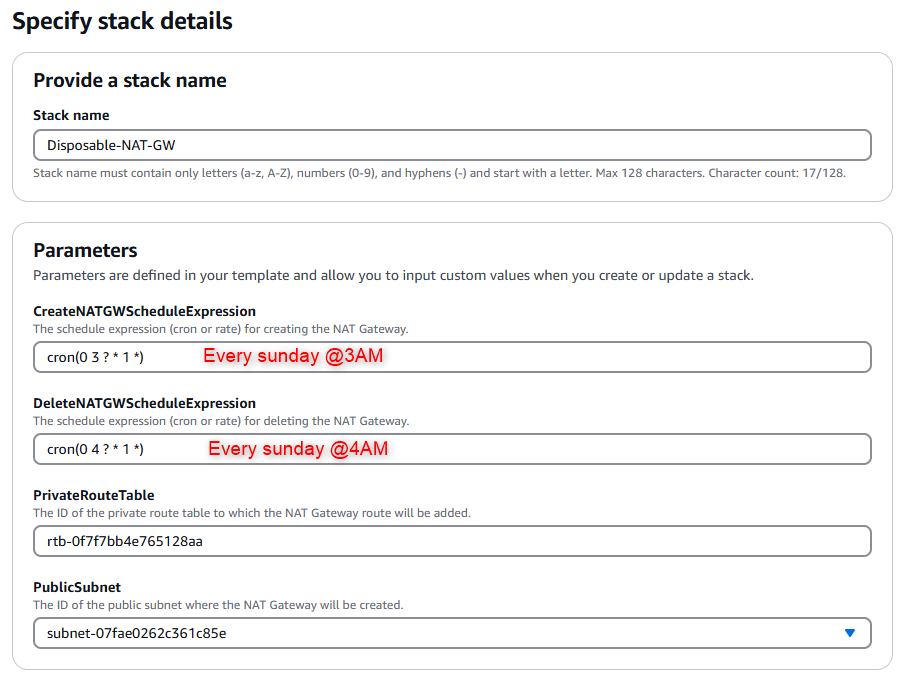
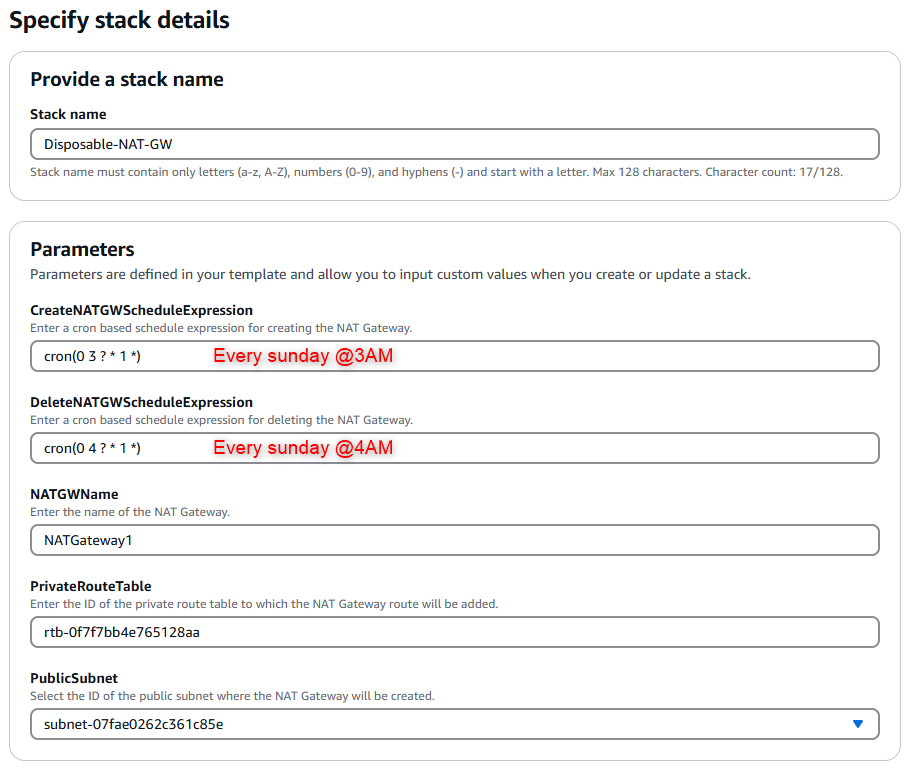
Fix: improve parameter descriptions in CFN template and add parameters.json for deployment

diff --git a/06_Disposable_NAT_Gateway/README.md b/06_Disposable_NAT_Gateway/README.md
@@ -95,16 +95,20 @@ There are 4 parameters that you should provide to the cloudformation template:
    - Same as above, but for deleting the NAT Gateway.
 
 ### How to deploy the solution:
-Fetch the cloudformation template from the repository:
+Fetch the cloudformation template & its parameters file from this repository:
 ```bash
 wget https://raw.githubusercontent.com/shahinam2/AWS-DevOps-Projects/refs/heads/main/06_Disposable_NAT_Gateway/CFN-Template.yaml
+wget https://raw.githubusercontent.com/shahinam2/AWS-DevOps-Projects/refs/heads/main/06_Disposable_NAT_Gateway/parameters.json
 ```
-And deploy it using the AWS CLI or AWS Management Console.
-Using the AWS CLI:
+Deploy it using the AWS CLI:
 ```bash
-aws cloudformation create-stack --stack-name DisposableNATGateway --template-body file://CFN-Template.yaml --parameters ParameterKey=PublicSubnet,ParameterValue=<Your-Public-Subnet-ID-Here> ParameterKey=PrivateRouteTable,ParameterValue=<Your-Private-RT-ID-Here> ParameterKey=CreateNATGWScheduleExpression,ParameterValue="Your-Start-Cron-as-String-Here" ParameterKey=DeleteNATGWScheduleExpression,ParameterValue="Your-End-Cron-as-String-Here"
+aws cloudformation create-stack \ 
+  --stack-name DisposableNATGateway \
+  --template-body file://CFN-Template.yaml \
+  --parameters file://parameters.json
 ```
-Using the AWS Management Console:
+
+Or using the AWS Management Console:
 1. Go to the CloudFormation service in the AWS Management Console.
 2. Click on "Create stack" and select "With new resources (standard)".
 3. Upload the cloudformation template file and click "Next".
@@ -154,7 +158,7 @@ Using the AWS Management Console:
 ### Further Work & Optimisation
 - Add a CloudWatch alarm to monitor the NAT Gateway and notify when it is created or deleted.
 - ~~Expand the solution to support multiple NAT Gateways.~~
-  - You can now deply this solution multiple times without any issue. you just have to provide different name for each NAT Gateway.
+  - You can now deploy this solution multiple times without any issue. you just have to provide different name for each NAT Gateway.
 - Separate the lambda functions from the CloudFormation template for better modularity.
 
 ---
